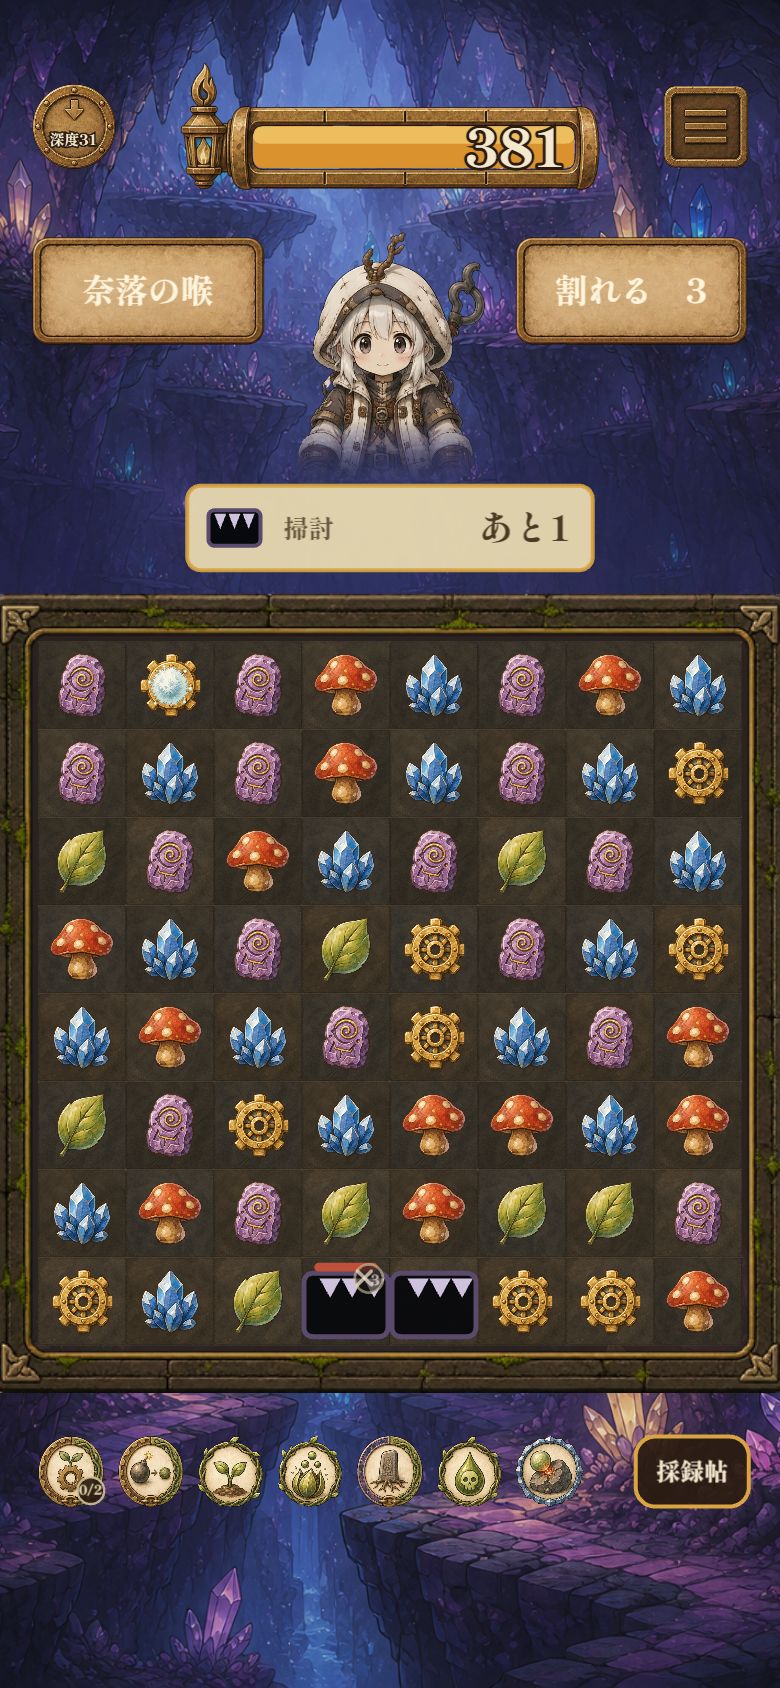
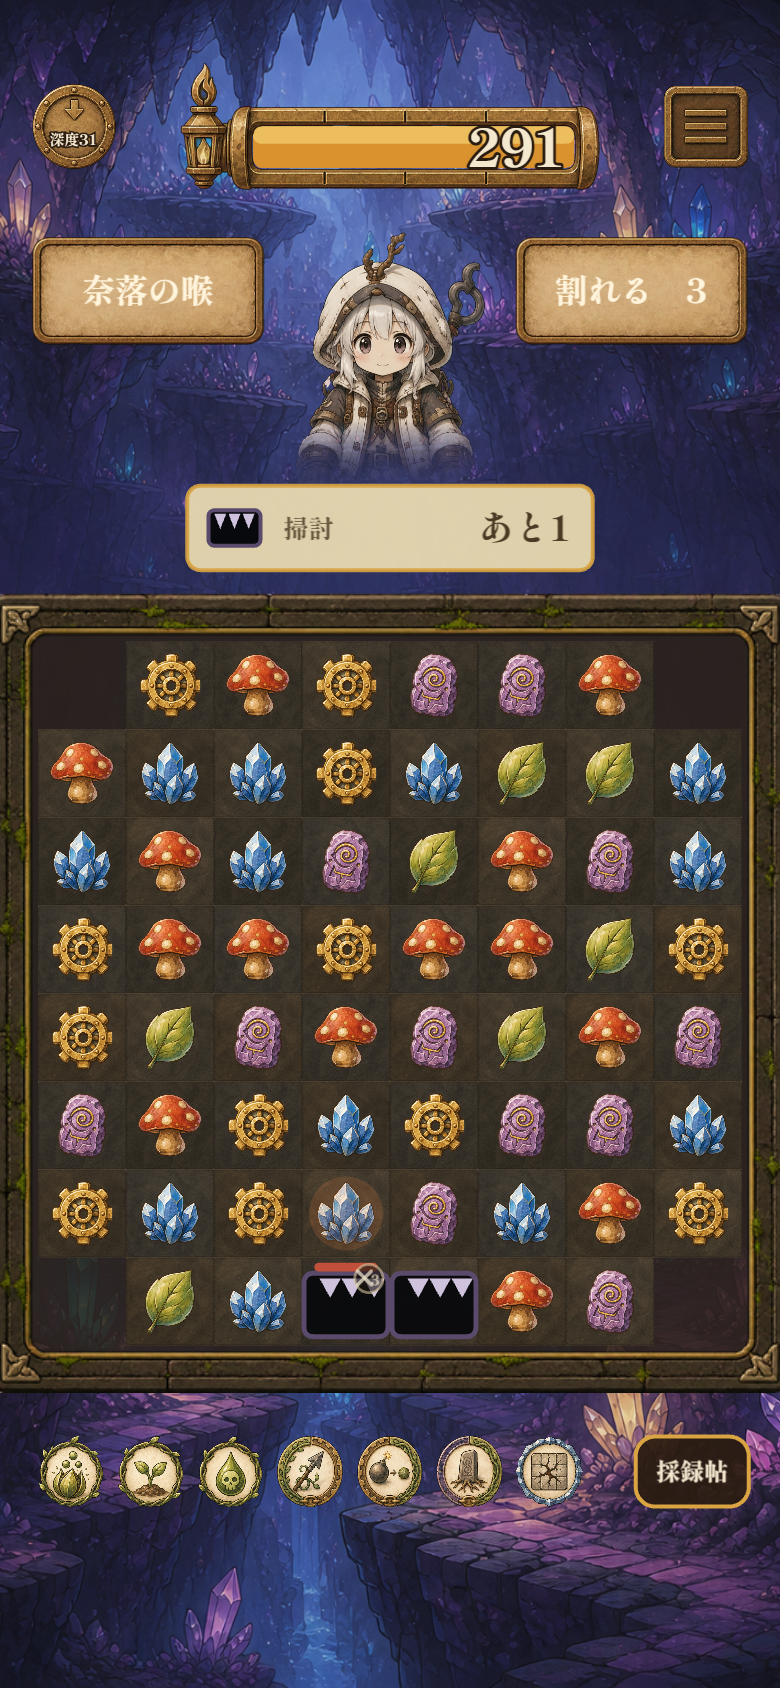
yacho(rogue): 浮遊ラベルの説明コメントを対象の関数へ付け直す（挙動は無変更）
前コミットでフィールド定義を挟んだため JSDoc が floatLabelFx ではなく
liveFloatLabels に付いてしまっていた。順序を入れ替えただけで実装は同じ。
あわせて31層通し検品のスクショを撮り直したもので更新（pageerror 0）。

Claude-Session: https://claude.ai/code/session_01DuezcohD5DxwyBiBBnAQex

diff --git a/games/yacho/src/view/BoardView.ts b/games/yacho/src/view/BoardView.ts
@@ -1499,13 +1499,14 @@ export class BoardView {
 
   // ---- 可視化第一波：小さな浮遊ラベル（因果の実況・強化発動アピール共通） ----
 
+  /** まだ消えていない浮遊ラベル（重なり避けの当たり判定に使う。各自 destroy で自然に抜ける） */
+  private liveFloatLabels: Text[] = []
+
   /**
    * 小さな浮遊ラベル（明朝・小・上昇して消える）。token-spawn/gear-trigger/爆発鉱石変換/upgrade-fire で共用。
    * 出所が違うラベルが同じマスに同時に出ると重なって両方読めなくなる（実測：深度22の層頭で「＋胞子」と「毒胞子」）。
    * 発火数は深層で増える一方なので、生きているラベルと重なる位置なら1行ぶんずつ上へ積む。
    */
-  private liveFloatLabels: Text[] = []
-
   private floatLabelFx(p: XY, text: string, color: number, t: number, yOffset = -0.15) {
     delay(t, () => {
       const txt = new Text({
